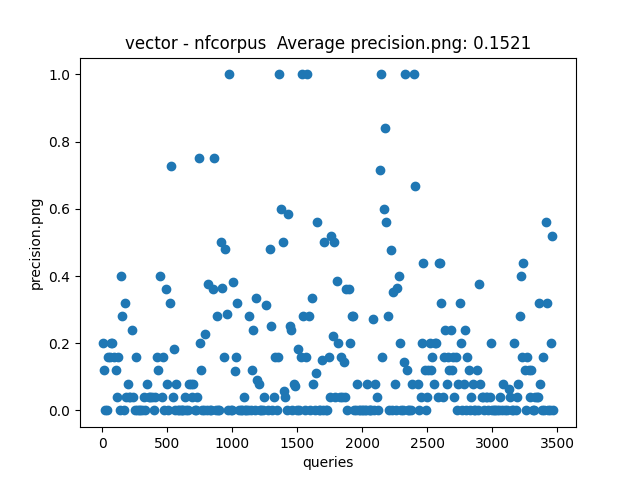
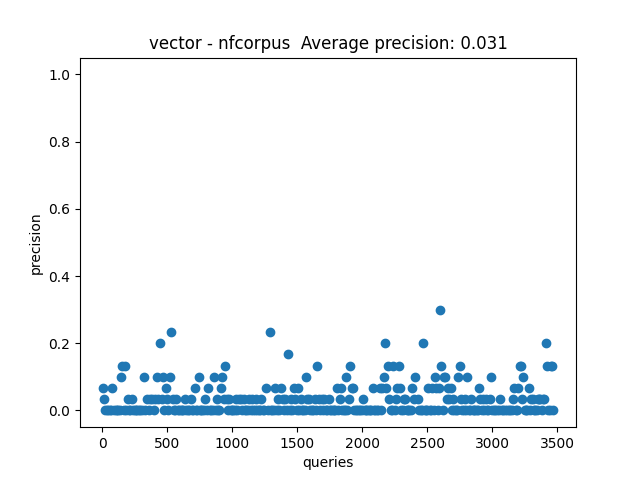
Last Update of backend and Evaluations

diff --git a/structures.py b/structures.py
@@ -39,8 +39,6 @@ class Std_tokenizer:
         Returns a list of Document, now with the indexed terms 
          for every document; and a list with all the indexed terms.
         """
-        start_time = time.time()
-
         # list of all indexed terms
         indexed_terms = []
 
@@ -54,13 +52,6 @@ class Std_tokenizer:
         unique_words = list(set(indexed_terms))  # remove repeated terms by using set()
         unique_words.sort()                      # sort to have a unique order when indexing
 
-        # Print the time it took to gather the tokens for the collection
-        print("Tokenization time:", round(time.time() - start_time, 2), "seconds")
-        # cranfield    29.54 sec
-        # vaswani      52.52 sec
-        # nfcorpus     79.12 sec
-        # vaswani_r    44.92 sec
-        # nfcorpus_r   63.9  sec
         return docs_list, unique_words
     
     def tokenize_nltk(doc_text):
@@ -85,7 +76,7 @@ class Std_tokenizer:
         
         return docs_by_term_dict, term_doc_matrix
 
-    def dictionary_strctr(terms, docs_list, start_time):
+    def dictionary_strctr(terms, docs_list):
         # a dictionary term:list . For every term in the collection, the documents it's in
         docs_by_term_dict = {t: [] for t in terms}
 
@@ -95,13 +86,6 @@ class Std_tokenizer:
             for t in no_repeat:
                 docs_by_term_dict[t].append(docs_list[i].id)
 
-        # Print the time it took to structure the data
-        print("Dictionary time:", round(time.time() - start_time, 2), "seconds")
-        # cranfield    0.16 sec
-        # vaswani      0.42 sec
-        # nfcorpus     0.81 sec
-        # vaswani_r    0.32 sec
-        # nfcorpus_r   0.59 sec
         return docs_by_term_dict
 
     def freq_m_strctr(terms, docs_list, docs_by_term_dict, start_time):
@@ -114,14 +98,7 @@ class Std_tokenizer:
                 d_ind = docs_by_term_dict[terms[i]] [k]  - 1   # minus 1, because the document's id is 1-indexed
                 freq = docs_list[d_ind].terms_list.count(terms[i])
                 term_doc_matrix[i,d_ind] = freq
-
-        # Print the time it took to structure the data
-        print("Data structuring time:", round(time.time() - start_time, 2), "seconds")
-        # cranfield    1.41 sec
-        # vaswani      4.81 sec
-        # nfcorpus    10.97 sec
-        # vaswani_r    2.76 sec
-        # nfcorpus_r   7.26 sec
+ 
         return term_doc_matrix
 
     def pickle_dump(path, docs_list, docs_by_term_dict, terms, term_doc_matrix):
@@ -214,15 +191,21 @@ class Cranfield(Collection):
         # a dictionary of Query
         self.queries_dict = {}
         # load queries
+        q_ind_q_id_dict = {}
+        i = 1
         for query in self._generator.queries_iter():
             self.queries_dict[int(query.query_id)] = Query(int(query.query_id), query.text)
+            q_ind_q_id_dict[i] = int(query.query_id)
+            i+=1
         self.loaded_queries = True
         # load queries relevances
         for qrel in self._generator.qrels_iter():
-            if int(qrel.doc_id) <= self.numb_docs and qrel.relevance > 0:
-                q = self.queries_dict.get(int(qrel.query_id))
-                if q: #if the qrel.query_id is in self.queries_dict
+            if int(qrel.doc_id) <= self.numb_docs:
+                q = self.queries_dict.get(q_ind_q_id_dict[int(qrel.query_id)])
+                if q:
                     q.docs_relevance.append(int(qrel.doc_id))
+                else: print('Noooo')
+
         self.loaded_rel = True
 
     def process_docs(self):
@@ -269,7 +252,7 @@ class Vaswani(Collection):
         self.loaded_queries = True
         # load queries relevances
         for qrel in self._generator.qrels_iter():
-            if int(qrel.doc_id) <= self.numb_docs and qrel.relevance > 0:
+            if int(qrel.doc_id) <= self.numb_docs:
                 q = self.queries_dict.get(int(qrel.query_id))
                 if q: # if the qrel.query_id is in self.queries_dict
                     q.docs_relevance.append(int(qrel.doc_id))
@@ -326,7 +309,7 @@ class Nfcorpus(Collection):
         self.loaded_queries = True
         # load queries relevances
         for qrel in self._generator.qrels_iter():
-            if int(qrel.doc_id[4:]) <= self.numb_docs and qrel.relevance > 0:
+            if int(qrel.doc_id[4:]) <= self.numb_docs:
                 q = self.queries_dict.get(int(qrel.query_id[6:]))
                 if q: # if the qrel.query_id is in self.queries_dict
                     q.docs_relevance.append(int(qrel.doc_id[4:]))
@@ -377,3 +360,4 @@ datasets = {
     'nfcorpus'    : Nfcorpus(),
     'nfcorpus_r'  : Nfcorpus(reduce=True)
 }
+

diff --git a/Vector_model.py b/Vector_model.py
@@ -14,7 +14,7 @@ class Vector_model():
     lemmatizer = WordNetLemmatizer()                    # nltk lemmatizer
     lemmatizer.lemmatize('', pos ='v')                  # initialize the lemmatizer (because of the lazy load)
     
-    def __init__(self, collection= 'cranfield'):
+    def __init__(self, collection):
         self.start_time = time.time() 
         self.collection = st.datasets[collection]
 
@@ -23,24 +23,12 @@ class Vector_model():
             self.collection.process_docs()
             self.collection.load_files()
 
-        # Print the time it took to read the collection data
-        print("First load time:", round(time.time() - self.start_time, 2), "seconds")
-        # cranfield    0.88 sec
-        # vaswani      2.45 sec
-        # nfcorpus     6.45 sec
-
         try:
             self.load_tf_idf(self.collection.save_path)
         except:
             self.idf_list = self.idf()
             self.tfXidf_2darray = self.Joint_tf_idf() 
             np.save(os.path.join(self.collection.save_path, 'idf_list'), self.idf_list)
-
-        # Print the time it took to get tf, idf and tf x idf
-        print("tf idf load time:", round(time.time() - self.start_time, 2), "seconds")
-        # except: cranfield    1.34 sec
-        # except: vaswani      5.48 sec
-        # except: nfcorpus    10.43 sec
 
     def load_tf_idf(self, path):
         idf_f = open(os.path.join(path, 'idf_list.npy'), 'r')
@@ -89,7 +77,6 @@ class Vector_model():
         query: valid expression to search for
         returns: top-ranking relevant documents
         """
-        start_time = time.time()
 
         # Tokenize query
         query_tokens = self.tokenize_query(query_text)
@@ -108,11 +95,7 @@ class Vector_model():
 
         index_list = list(ranked_docs.keys())[0:ranking]
         docs_to_print = self.collection.docs_ranking(ranking, index_list)
-        # Print the time it took to gather the tokens for the collection
-        print("Query tokenization time:", round(time.time() - start_time, 2), "seconds")
-        # cranfield    0.55   sec 
-        # vaswani      20.21  sec
-        # nfcorpus     10.56  sec
+        
         return docs_to_print
 
     def tokenize_query(self, query):
@@ -159,7 +142,7 @@ class Vector_model():
     def evaluate_query(self, query_weight_vector):
         """
         Evaluates the query against the corpus
-        :param query_tokens: list of query tokens        :param query_tokens: list of query tokens
+        :param query_tokens: list of query tokens
 
         :returns: list of matching documents
         """

diff --git a/LSI_model.py b/LSI_model.py
@@ -24,22 +24,13 @@ class LSI_model():
             self.collection.process_docs()
             self.collection.load_files()
 
-        # Print the time it took to read the collection data
-        print("First load time:", round(time.time() - self.start_time, 2), "seconds")
-        # cranfield    0.89 sec
-        # vaswani_r    2.06 sec
-        # nfcorpus_r   4.89 sec
         try:
             self.load_tf_idf(self.collection.save_path)
         except:
             self.idf_list = self.idf()
             self.tfXidf_2darray = self.Joint_tf_idf() 
             np.save(os.path.join(self.collection.save_path, 'idf_list'), self.idf_list)
-        # Print the time it took to get tf, idf and tf x idf
-        print("tf idf load time:", round(time.time() - self.start_time, 2), "seconds")
-        # except: cranfield     1.43 sec
-        # except: vaswani_r     4.54 sec
-        # except: nfcorpus_r    8.09 sec
+
         try:
             self.load_TSD(self.collection.save_path)
         except:
@@ -48,11 +39,6 @@ class LSI_model():
             np.save(os.path.join(self.collection.save_path, 'LSI_Tk'), self.Tk)
             np.save(os.path.join(self.collection.save_path, 'LSI_Sk'), self.Sk)
             np.save(os.path.join(self.collection.save_path, 'LSI_DTk'), self.DTk)
-        # Print the time it took to get T, S and DT
-        print("T S D load time:", round(time.time() - self.start_time, 2), "seconds")
-        # except: cranfield   33.17 sec
-        # except: vaswani    953.38 sec
-        # except: nfcorpus   539.79 sec
 
     def load_tf_idf(self,path):
         idf_f = open(os.path.join(path, 'idf_list.npy'), 'r')
@@ -135,7 +121,6 @@ class LSI_model():
         """
         Query the indexed documents using a Latent Semantic Indexing model
         """
-        start_time = time.time()
         # Tokenize query
         query_tokens = self.tokenize_query(query)
         # Convert the query to the vector space
@@ -153,11 +138,7 @@ class LSI_model():
 
         index_list = list(ranked_docs.keys())[0:ranking]
         docs_to_print = self.collection.docs_ranking(ranking, index_list)
-        # Print the time it took to gather the tokens for the collection
-        print("Query tokenization time:", round(time.time() - start_time, 2), "seconds")
-        # cranfield     0.76 sec 
-        # vaswani_r     9.68 sec    
-        # nfcorpus_r    7.61 sec
+
         return docs_to_print
 
     def tokenize_query(self, query):

diff --git a/Boolean_model.py b/Boolean_model.py
@@ -15,7 +15,7 @@ class Boolean_model():
     lemmatizer = WordNetLemmatizer()                    # nltk lemmatizer
     lemmatizer.lemmatize('', pos ='v')                  # initialize the lemmatizer (because of the lazy load)
     
-    def __init__(self, collection= 'cranfield'):
+    def __init__(self, collection):
         self.start_time = time.time() 
         self.collection = st.datasets[collection]
 
@@ -24,18 +24,12 @@ class Boolean_model():
             self.collection.process_docs()
             self.collection.load_files()
 
-        # Print the time it took to read the collection data
-        print("First load time:", round(time.time() - self.start_time, 2), "seconds")
-        # cranfield    0.91 sec
-        # vaswani      2.41 sec
-        # nfcorpus     6.72 sec
 
     def query(self, query_text, ranking=30):
         """
         Query the indexed documents using a boolean model
         """
-        start_time = time.time()
-
+        
         # Tokenize query
         query_tokens = self.tokenize_query(query_text)
         if len(query_tokens) == 0:
@@ -59,11 +53,7 @@ class Boolean_model():
         
         index_list = list(ranked_docs.keys())[0:ranking]
         docs_to_print = self.collection.docs_ranking(ranking, index_list)
-        # Print the time it took to gather the tokens for the collection
-        print("Query tokenization time:", round(time.time() - start_time, 2), "seconds")
-        # cranfield    0.04 sec
-        # vaswani      0.35 sec
-        # nfcorpus     0.11 sec
+
         return docs_to_print
 
     def tokenize_query(self, query):
@@ -131,7 +121,6 @@ class Boolean_model():
         for i in tf_dict:
             tf_dict[i] = tf_dict[i] / max_freq
         return tf_dict
-
 
     def parse_query(self, query_tokens):
         vector = []
@@ -214,7 +203,7 @@ class Boolean_model():
         Evaluates the query against the corpus
         """
         doc_likehood = {d.id:0 for d in self.collection.documents_list}
-        for t in query_tokens:            # intersection of relevant documents per term
+        for t in query_tokens:            
             term_value = query_tf.get(t)
             if not term_value: term_value = 0
             ds = self.collection.terms_dict.get(t)

diff --git a/Evaluation.py b/Evaluation.py
@@ -174,16 +174,18 @@ def evaluate(model: str, coll:str, F_beta: float):
     
 def plot(X:list, Y:list, avg: float, name:str, fig: int, Xlabel = 'queries', Ylabel=''):
     path = os.path.join(os.path.dirname(__file__), 'evaluation')
-    path = os.path.join(path, name)
+    path = os.path.join(path, name+'.png')
     n = name.split('_')
     plt.figure(fig)
-    plt.scatter(X, Y )
+    plt.scatter(X, Y)
     plt.xlabel(Xlabel)
     if Ylabel == '': Ylabel = n[2]
     plt.ylabel(Ylabel)
     plt.title(n[0]+' - '+n[1]+'  Average '+Ylabel+': '+str(round(avg,4)))
+    plt.ylim(-0.05,1.05)
     plt.savefig(path, format='png')
     # plt.show()
+
 
 
 # evaluate('vector', 'cranfield', 5)
@@ -197,6 +199,8 @@ def plot(X:list, Y:list, avg: float, name:str, fig: int, Xlabel = 'queries', Yla
 # evaluate('boolean', 'nfcorpus', 5)
 
 # cran = st.Cranfield()     
+# cran.load_queries()
+# print(cran.queries_dict)
 # cran.process_docs()
 # print(cran.freq_matrix.shape, cran.freq_matrix.size)      # (5510, 1400) 7,714,000
 # vsw = st.Vaswani()
